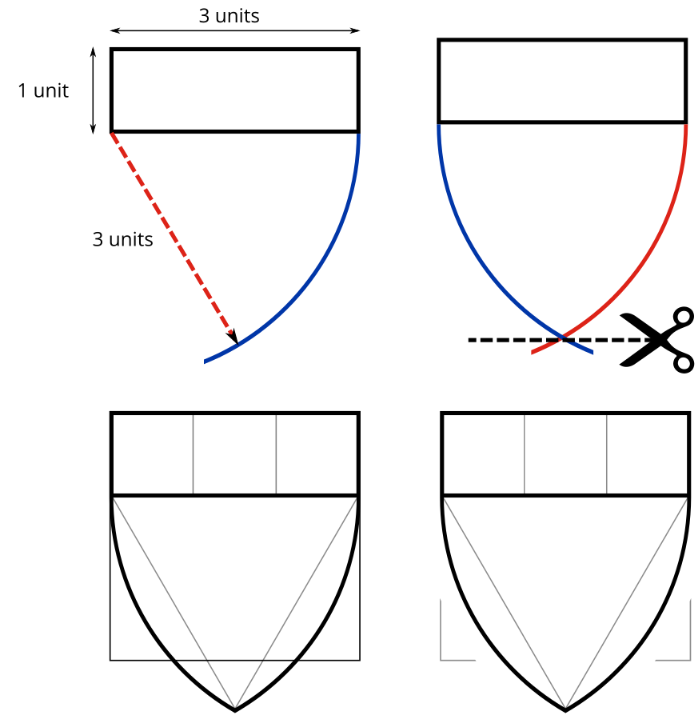
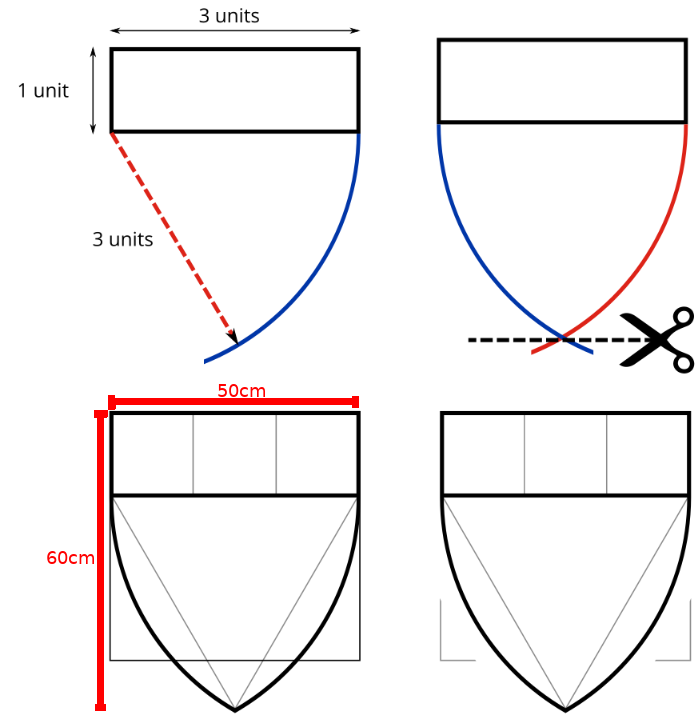
i

Changed region(s): [[0.0602, 0.5209, 0.5115, 1.0]]

diff --git a/index.html b/index.html
@@ -131,13 +131,13 @@
           cáry látky - zbraně by měly působit čistým dojmem, jakobychom je zrovna
           vyfasovali z vojenského skladu.
         </p>
-        <p>
+        <!-- <p>
           Pro erbovní štíty nemáme pravidla, budeme se tedy muset "vlézt" do
           pravidel pro obdélníkové štíty, tj 50x60cm. Nejsnažší je zakulatit
           spodní rohy štítu (viz obr.) - tak ztratíme nejméně plochy.
           Pro lepší estetický výsledek můžeme spodek štítu zkosit výrazněji
           <a href="img/heather.png"> (nákres). </a>
-        </p>
+        </p> -->
       </article>
     </section>
 
